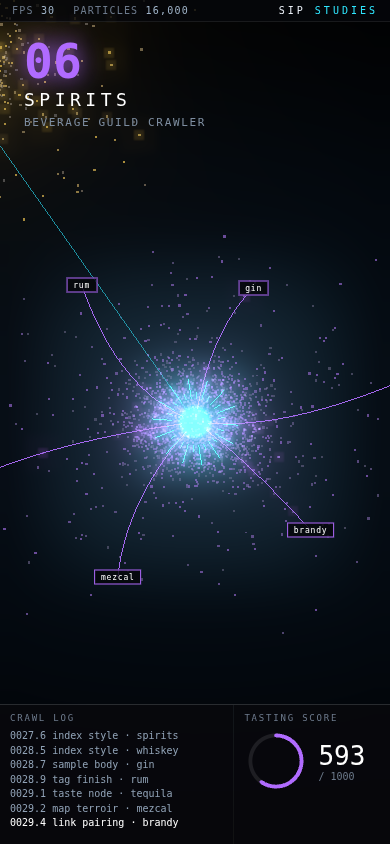
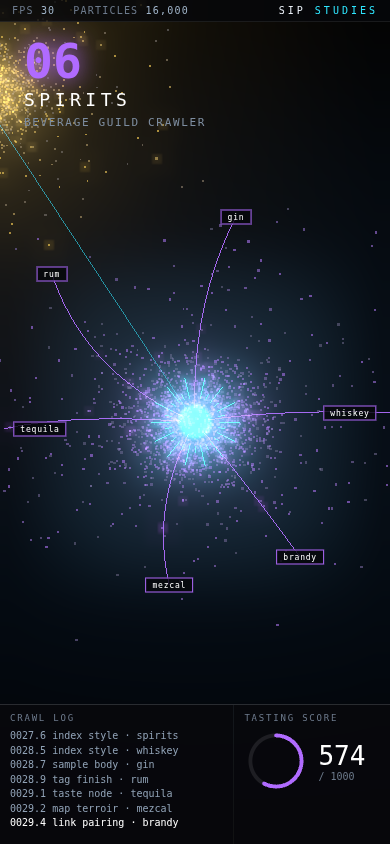
Mobile dashboard + tag clamping, previews

diff --git a/index.html b/index.html
@@ -111,7 +111,7 @@ const p=td.line.geometry.attributes.position.array,s=crawler.position,mid=s.clon
 for(let q=0;q<32;q++){const u=q/31*k,a1=s.clone().lerp(mid,u),a2=mid.clone().lerp(s.clone().lerp(td.end,1),u),pt=a1.lerp(a2,u);p[q*3]=pt.x;p[q*3+1]=pt.y;p[q*3+2]=pt.z}
 td.line.geometry.attributes.position.needsUpdate=true;
 if(a>=1&&td.el.style.opacity!=='1'){td.el.style.opacity=1;prog[cur]++;score+=12+Math.round(Math.random()*8);secsEl.children[cur].lastChild.textContent=`${prog[cur]}/${G[cur].t.length}`;log(`${VERBS[(j+cur)%VERBS.length]} · ${td.el.textContent}`);beatArr[beatArr.length-1]=1}
-const v=td.end.clone().project(cam);td.el.style.left=((v.x+1)/2*innerWidth)+'px';td.el.style.top=((1-v.y)/2*innerHeight)+'px'});
+const v=td.end.clone().project(cam);td.el.style.left=Math.max(40,Math.min(innerWidth-40,(v.x+1)/2*innerWidth))+'px';td.el.style.top=((1-v.y)/2*innerHeight)+'px'});
 // colors
 for(let i=0;i<N;i++){const k=cid[i],l=lit[k]*(.35+.3*Math.sin(now*2+i));const c=gcol[k];col[i*3]=base.r+(c.r-base.r)*l;col[i*3+1]=base.g+(c.g-base.g)*l;col[i*3+2]=base.b+(c.b-base.b)*l}
 if(fr%2==0)pg.attributes.color.needsUpdate=true;
